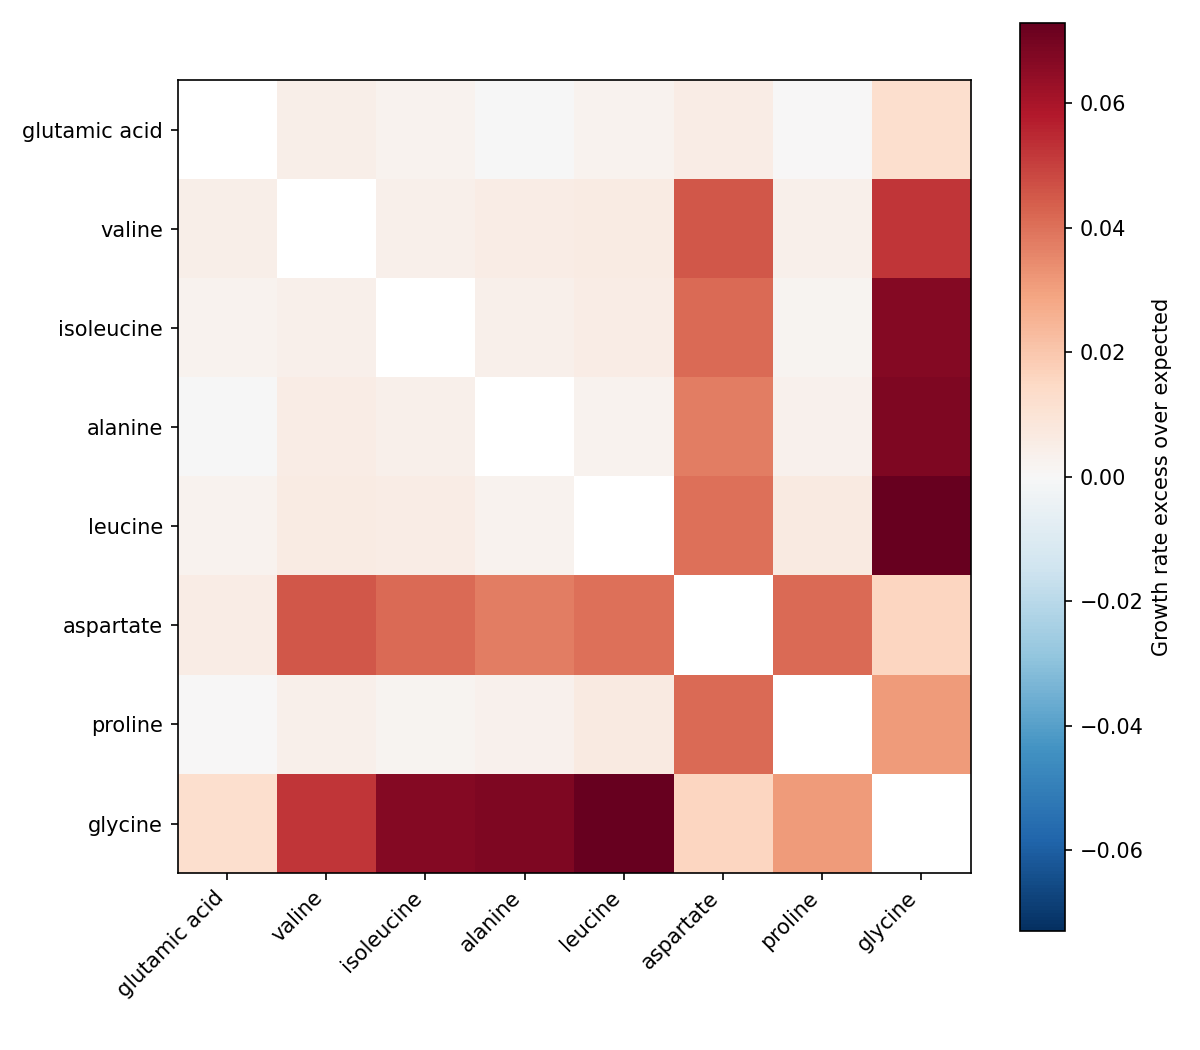
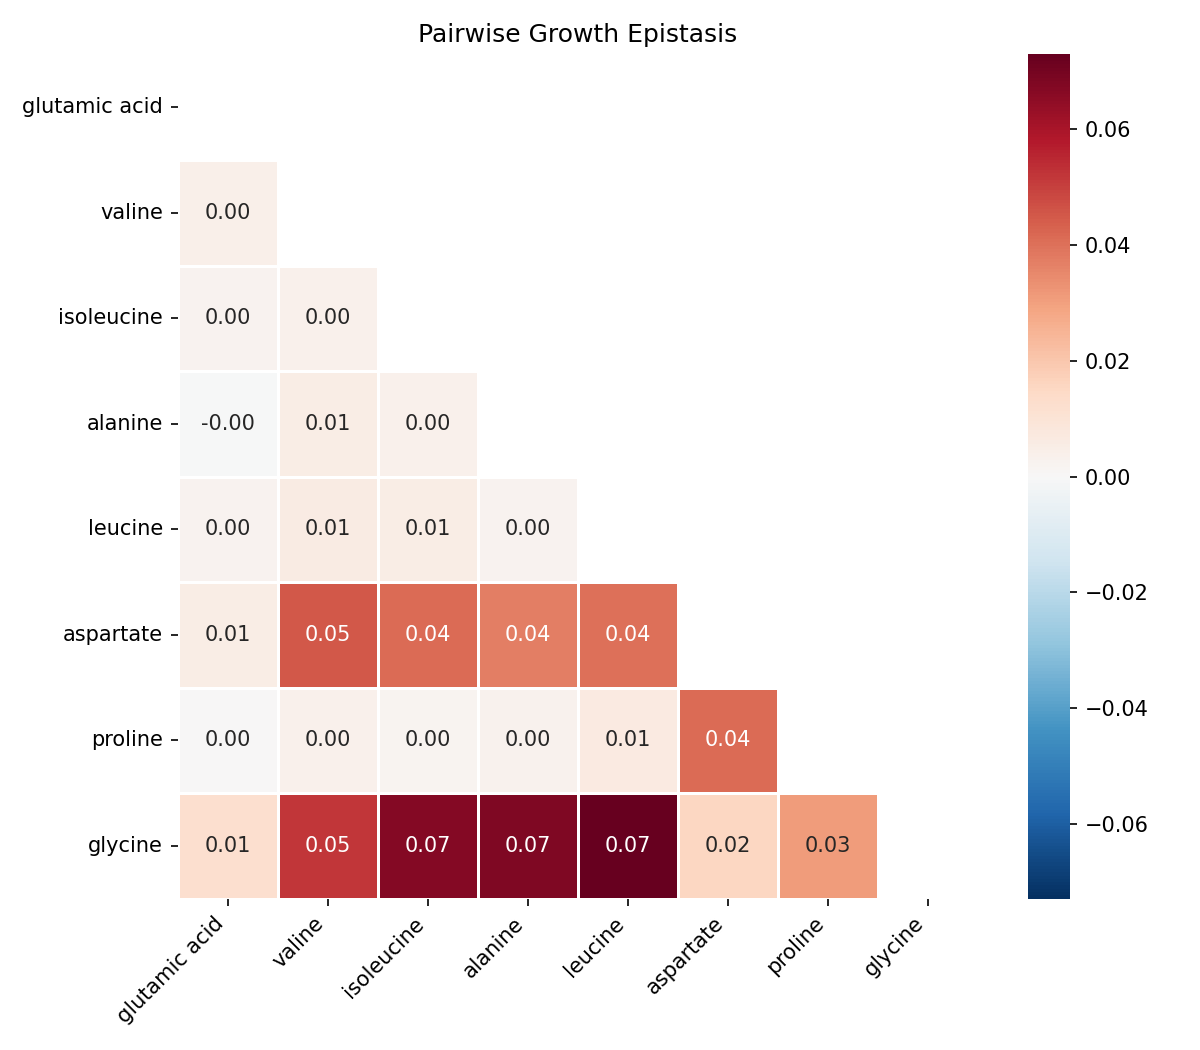
feat: mask the top triangle

diff --git a/simulations/pro-top10/growth_rate_vs_composition/plot_epistasis.py b/simulations/pro-top10/growth_rate_vs_composition/plot_epistasis.py
@@ -5,6 +5,7 @@ from pathlib import Path
 import matplotlib.pyplot as plt
 import numpy as np
 import pandas as pd
+import seaborn as sns
 
 # Set file paths
 FILE_PATH = Path(__file__).resolve().parent
@@ -60,19 +61,26 @@ for _, row in pairs.iterrows():
     matrix.loc[row["substrate_a"], row["substrate_b"]] = row["epistasis"]
     matrix.loc[row["substrate_b"], row["substrate_a"]] = row["epistasis"]
 
+# Create a mask for the upper triangle
+mask = np.triu(np.ones_like(matrix, dtype=bool))
+
 # Plot with diverging colormap centered at zero
 # (positive = synergy, negative = antagonism)
 fig, ax = plt.subplots(figsize=(8, 7))
-im = ax.imshow(
-    matrix.values,
+sns.heatmap(
+    matrix,
+    mask=mask,  # Apply the mask
     cmap="RdBu_r",
-    vmin=-matrix.abs().max().max(),
     vmax=matrix.abs().max().max(),
+    vmin=-matrix.abs().max().max(),
+    annot=True,  # Optionally, show the values in the cells
+    fmt=".2f",  # Format annotations to 2 decimal places
+    linewidths=0.5,
+    ax=ax,
 )
-ax.set_xticks(range(len(substrate_order)))
-ax.set_yticks(range(len(substrate_order)))
-ax.set_xticklabels(substrate_order, rotation=45, ha="right")
-ax.set_yticklabels(substrate_order)
-fig.colorbar(im, label="Growth rate excess over expected")
-plt.tight_layout()
+
+ax.set_title("Pairwise Growth Epistasis")
+ax.set_xticklabels(ax.get_xticklabels(), rotation=45, ha="right")
+
+fig.tight_layout()
 fig.savefig(OUT_PATH / "figure_epistasis.png", dpi=150)